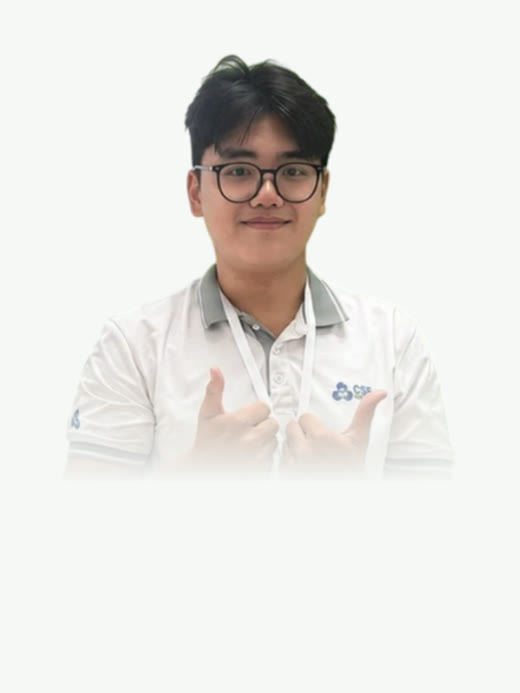
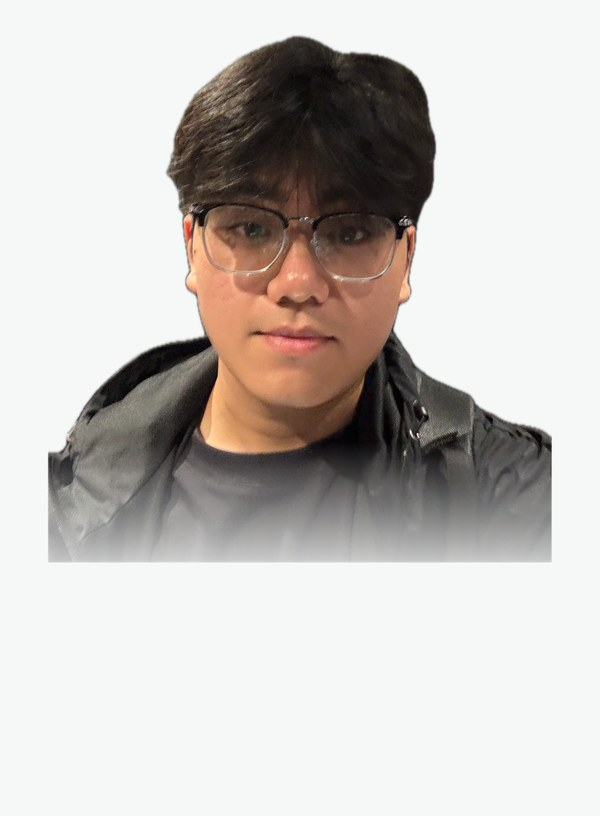
update

diff --git a/landing/index.html b/landing/index.html
@@ -760,7 +760,7 @@
             </div>
           </li>
           <li class="l-member l-member-lead l-reveal" style="--d: 180ms">
-            <div class="l-member-photo"><img src="/team/long-quan-ton.jpg" alt="Portrait of Long Quan Ton" width="520" height="693" loading="lazy" /></div>
+            <div class="l-member-photo"><img src="/team/long-quan-ton.jpg" alt="Portrait of Long Quan Ton" width="600" height="816" loading="lazy" /></div>
             <div class="l-member-meta">
               <p class="l-member-name">Long Quan Ton</p>
               <p class="l-member-role">Project Lead &amp; AI Engineer</p>

diff --git a/landing/README.md b/landing/README.md
@@ -66,7 +66,7 @@ app shows the message; staff writes get HTTP 429. Counts live in memory (single 
 - `public/media/lantern-teaser-1080p.mp4`: the official teaser for the web (1080p H.264 + AAC,
   ~34 MB, `faststart`), with the "The Latern" title typo corrected to "The Lantern" in the intro
   (≈11–14 s) and the outro (≈183–185 s). The corrected 4K master is
-  `The Lantern_Teaser_Official_fixed.mp4` at the repo root, kept out of git.
+  `_media/The Lantern_Teaser_Official_fixed.mp4`, kept out of git.
 - `public/audio/demo/*.mp3`: feature-demo audio from `scripts/generate_demo_audio.py`
   (`.venv/bin/python landing/scripts/generate_demo_audio.py`). The waiter uses the product's Kokoro
   voices and says the replies verbatim; the "one moment" clips are the app's real fillers.
